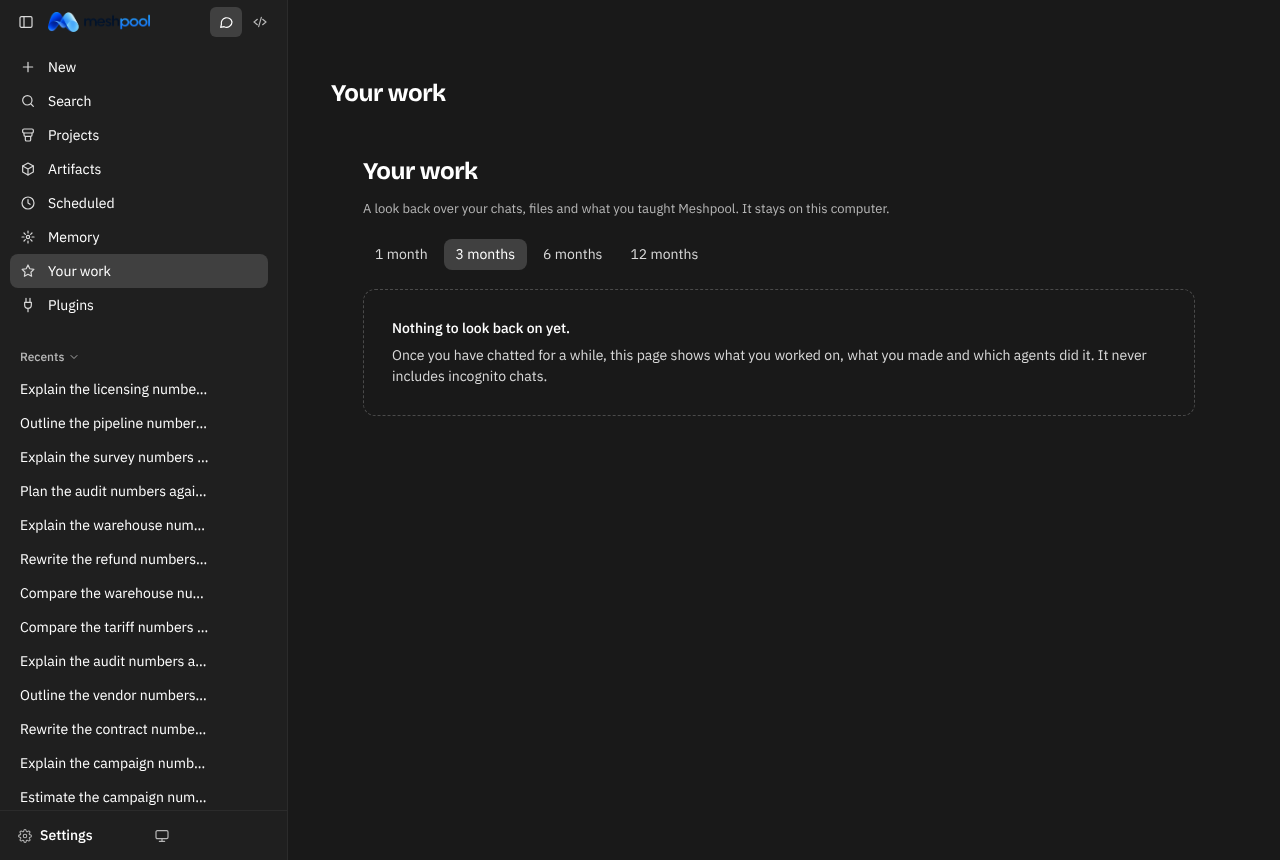
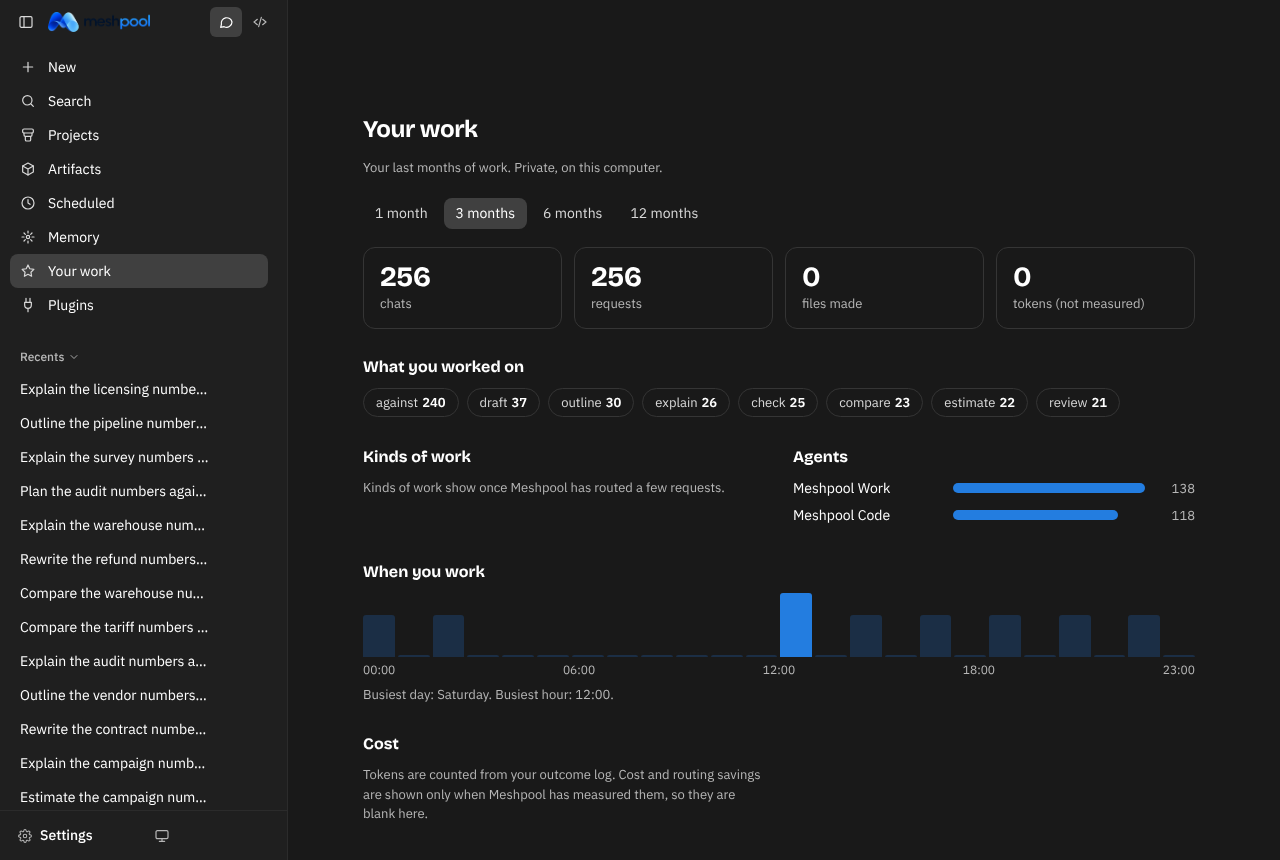
Screens: trimmed import and Your work copy, seed fixes, topic stop words

diff --git a/app/meshpool_harness/ui/app.js b/app/meshpool_harness/ui/app.js
@@ -2344,14 +2344,14 @@ async function drawMcpLibrary(b) {
 
 /* Bring your setup: skills and MCP servers from Claude, Codex, Cursor and other apps on this computer. */
 async function importPanel(box, onDone) {
-  box.innerHTML = `<div class="res">Looking for skills and MCP servers in Codex, Cursor and other apps...</div>`;
+  box.innerHTML = `<div class="res">Looking…</div>`;
   let f;
   try { f = await api("/api/import"); } catch (e) { box.innerHTML = `<div class="res bad">${esc(e.message)}</div>`; return; }
   const rows = [...f.skills, ...f.mcp];
-  if (!rows.length) { box.innerHTML = `<div class="res">No skills or MCP servers found in other apps on this computer. You can add skills and servers any time in Settings.</div>`; onDone?.(null); return; }
+  if (!rows.length) { box.innerHTML = `<span></span>`; onDone?.(null); return; }
   const item = r => `<label class="imp"><input type="checkbox" data-key="${esc(r.key)}"><span class="tg"><b>${esc(r.name)}</b> <span class="badge modified">${esc(r.source)}</span>${r.exists ? ` <span class="badge">Already in Meshpool</span>` : ""}<small>${esc(r.description || "")}</small></span></label>`;
   box.innerHTML = `<div class="impsel"><button class="linkbtn" id="impAll">Select all</button><button class="linkbtn" id="impNone">Select none</button></div>${f.skills.length ? `<h3 class="onb-h">Skills (${f.skills.length})</h3><div class="impl">${f.skills.map(item).join("")}</div>` : ""}
-    ${f.mcp.length ? `<h3 class="onb-h">Tools from other apps (${f.mcp.length})</h3><div class="impl">${f.mcp.map(item).join("")}</div><p class="lead" style="font-size:12px">They keep their settings from the other app and stay on this computer.</p>` : ""}
+    ${f.mcp.length ? `<h3 class="onb-h">Tools (${f.mcp.length})</h3><div class="impl">${f.mcp.map(item).join("")}</div>` : ""}
     <div style="display:flex;gap:8px;align-items:center;margin-top:10px"><button class="btn primary" id="impGo">Import selected</button></div><div class="res" id="impRes"></div>`;
   $("#impAll", box).onclick = () => $$("[data-key]", box).forEach(x => x.checked = true);
   $("#impNone", box).onclick = () => $$("[data-key]", box).forEach(x => x.checked = false);
@@ -2363,7 +2363,7 @@ async function importPanel(box, onDone) {
       const r = await post("/api/import", {keys});
       await loadSkills(); S.connCache = null;
       $("#impRes", box).className = "res " + (r.errors.length ? "bad" : "ok");
-      $("#impRes", box).textContent = `Imported ${r.skills.length} skill${r.skills.length === 1 ? "" : "s"} and ${r.mcp.length} MCP server${r.mcp.length === 1 ? "" : "s"}. Every agent can use them in new chats.` + (r.errors.length ? " Problems: " + r.errors.join("; ") : "");
+      $("#impRes", box).textContent = `Imported ${r.skills.length} skill${r.skills.length === 1 ? "" : "s"}, ${r.mcp.length} tool${r.mcp.length === 1 ? "" : "s"}.` + (r.errors.length ? " Problems: " + r.errors.join("; ") : "");
       box.dataset.done = "1"; onDone?.(r);
     } catch (e) { $("#impRes", box).className = "res bad"; $("#impRes", box).textContent = e.message; }
     $("#impGo", box).disabled = false;

diff --git a/testkit/shots_home.js b/testkit/shots_home.js
@@ -7,8 +7,8 @@ const [port, name, out] = process.argv.slice(2);
     const p = await b.newPage({viewport: {width: 1280, height: 860}});
     p.on("pageerror", e => errs.push(e.message)); p.on("console", m => { if (m.type() === "error" && !/favicon/.test(m.text())) errs.push(m.text()); });
     await p.goto(`http://127.0.0.1:${port}/`); await p.waitForTimeout(1200);
-    if (name === "fresh" && theme === "light") await p.screenshot({path: `${out}/import-onboarding-light.png`, fullPage: false});
-    for (let i = 0; i < 5; i++) { const c = await p.$('button:has-text("Continue"), button:has-text("Start using Meshpool")'); if (!c) break; if (name === "fresh" && theme === "light" && i === 1) await p.screenshot({path: `${out}/import-step-light.png`}); await c.click(); await p.waitForTimeout(700); }
+    if (name.startsWith("fresh") && theme === "light") await p.screenshot({path: `${out}/import-onboarding-light.png`, fullPage: false});
+    for (let i = 0; i < 5; i++) { const c = await p.$('button:has-text("Continue"), button:has-text("Start using Meshpool")'); if (!c) break; if (name.startsWith("fresh") && theme === "light" && i === 1) await p.screenshot({path: `${out}/import-step-light.png`}); await c.click(); await p.waitForTimeout(700); }
     if (theme === "dark") await p.evaluate(() => document.documentElement.setAttribute("data-theme", "dark"));
     await p.evaluate(() => newThread()); await p.waitForTimeout(2500);
     await p.screenshot({path: `${out}/home-${name}-${theme}.png`});

diff --git a/app/meshpool_harness/ui/yourwork.js b/app/meshpool_harness/ui/yourwork.js
@@ -66,7 +66,7 @@
 
   function draw(box, d) {
     if (d.empty) {
-      box.innerHTML = `<div class="gempty"><b>Nothing to look back on yet.</b><span>Once you have chatted for a while, this page shows what you worked on, what you made and which agents did it. It never includes incognito chats.</span></div>`;
+      box.innerHTML = `<div class="gempty"><b>Nothing to look back on yet.</b><span>Nothing yet. Incognito chats are never counted.</span></div>`;
       return;
     }
     const t = d.totals, u = d.usage, w = d.when;
@@ -129,7 +129,7 @@
     render(container) {
       css();
       container.innerHTML = `<div class="gal mw"><header class="gh"><h1>Your work</h1></header>
-        <p class="mw-sub">A look back over your chats, files and what you taught Meshpool. It stays on this computer.</p>
+        <p class="mw-sub">Your last months of work. Private, on this computer.</p>
         <div class="gbar"><div class="gtabs" role="tablist">${RANGES.map(([n, l]) => `<button role="tab" data-mw-range="${n}" aria-selected="${n === state.range}">${l}</button>`).join("")}</div></div>
         <div id="mwBody"></div></div>`;
       const box = container.querySelector("#mwBody");

diff --git a/app/meshpool_harness/ui/memory.js b/app/meshpool_harness/ui/memory.js
@@ -220,7 +220,7 @@ async function memExport(kind) {
 
 /* "Your work" page: the module is yourwork.js; this is the shell glue. */
 window.pageYourWork = function () {
-  shell0(`<header class="gh"><h1>Your work</h1></header><div id="mwBox"></div>`);
+  shell0(`<div id="mwBox"></div>`);
   if (window.MeshYourWork) window.MeshYourWork.render($("#mwBox"));
 };
 /* A suggestion on the "Your work" page (or a card) acts here: the same actions the insight cards use. */

diff --git a/testkit/seed_heavy.py b/testkit/seed_heavy.py
@@ -16,11 +16,32 @@ from meshpool_harness import config as C  # noqa: E402
 
 corp = F.heavy_use()
 runs = C.runs_dir()
+delta = time.time() - F.NOW - 3600                    # fixtures live at a fixed date: move them to just before now
+
+
+def shift(ch):
+    for k in ("ts", "created"):
+        if k in ch:
+            ch[k] += delta
+    return ch
+
+
+import json  # noqa: E402
+
+
+def write(ch):
+    F.write_chat(runs, shift(ch))
+    f = runs / "sessions" / ch["id"] / "session.json"        # real sessions start with the system message
+    d = json.loads(f.read_text(encoding="utf-8"))
+    d["messages"].insert(0, {"role": "system", "content": "system"})
+    f.write_text(json.dumps(d), encoding="utf-8")
+
+
 for ch in corp.chats:
-    F.write_chat(runs, ch)
+    write(ch)
 extra = F.weekly(5, "Make the weekly sales summary deck from the Q3 sales workbook", prefix="wk")
 for ch in extra:
-    F.write_chat(runs, ch)
+    write(ch)
 t = A.add_task("Price watch", "Check supplier prices and tell me what moved", "daily", only_on_change=True)
 rows = A.tasks()
 sid = corp.chats[0]["id"]

diff --git a/app/meshpool_harness/yourwork.py b/app/meshpool_harness/yourwork.py
@@ -23,7 +23,8 @@ BUILTIN_SERVERS = {"browser", "computer-use", "playwright"}
 _STOP = set("""a an the and or of to for in on with my me i is it this that be please can you do what how make get use
 about from into at as are was were will would should could have has had not no yes new just also more most some any all
 your our their its then than them they we us one two three file files chat chats work need want help create write give
-show tell let using used looks look like add changes change""".split())
+show tell let using used looks look like add changes change against over under between after before across
+draft outline explain check compare estimate review plan rewrite analyze analyse summarize summarise numbers""".split())
 _SPEC_LABELS = {"docs.slides": "Slides", "docs.sheets": "Spreadsheets", "docs.word": "Documents", "docs": "Documents",
                 "code": "Code", "data": "Data analysis", "research": "Research", "debug": "Debugging",
                 "build": "Building", "write": "Writing", "browse": "Browsing", "lead": "Lead generation",
